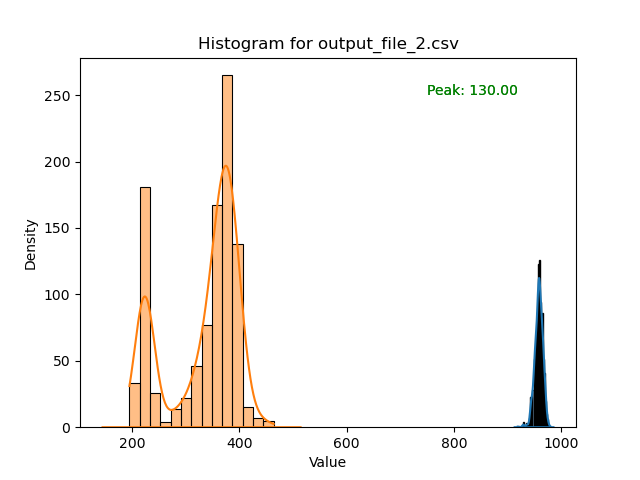
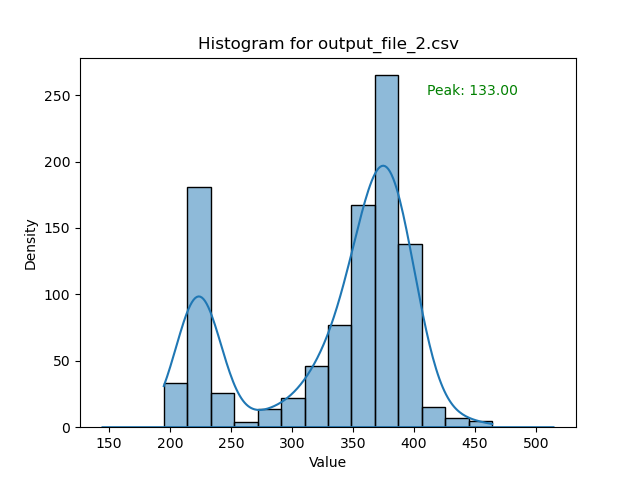
create graphs 3.0

diff --git a/code_files/visualisation/create_graph.py b/code_files/visualisation/create_graph.py
@@ -18,6 +18,9 @@ for filename in os.listdir(csv_dir):
         file_path = os.path.join(csv_dir, filename)
         data = pd.read_csv(file_path)
 
+        # Clear the figure
+        plt.clf()
+
         # Create a histogram with KDE
         sns.histplot(data['unique states after 1000 moves'], kde=True)
 
@@ -36,3 +39,4 @@ for filename in os.listdir(csv_dir):
 
         save_path = os.path.join(csv_dir[:-13], f'graphs\plot_{filename[:-4]}.png')
         plt.savefig(save_path)
+
